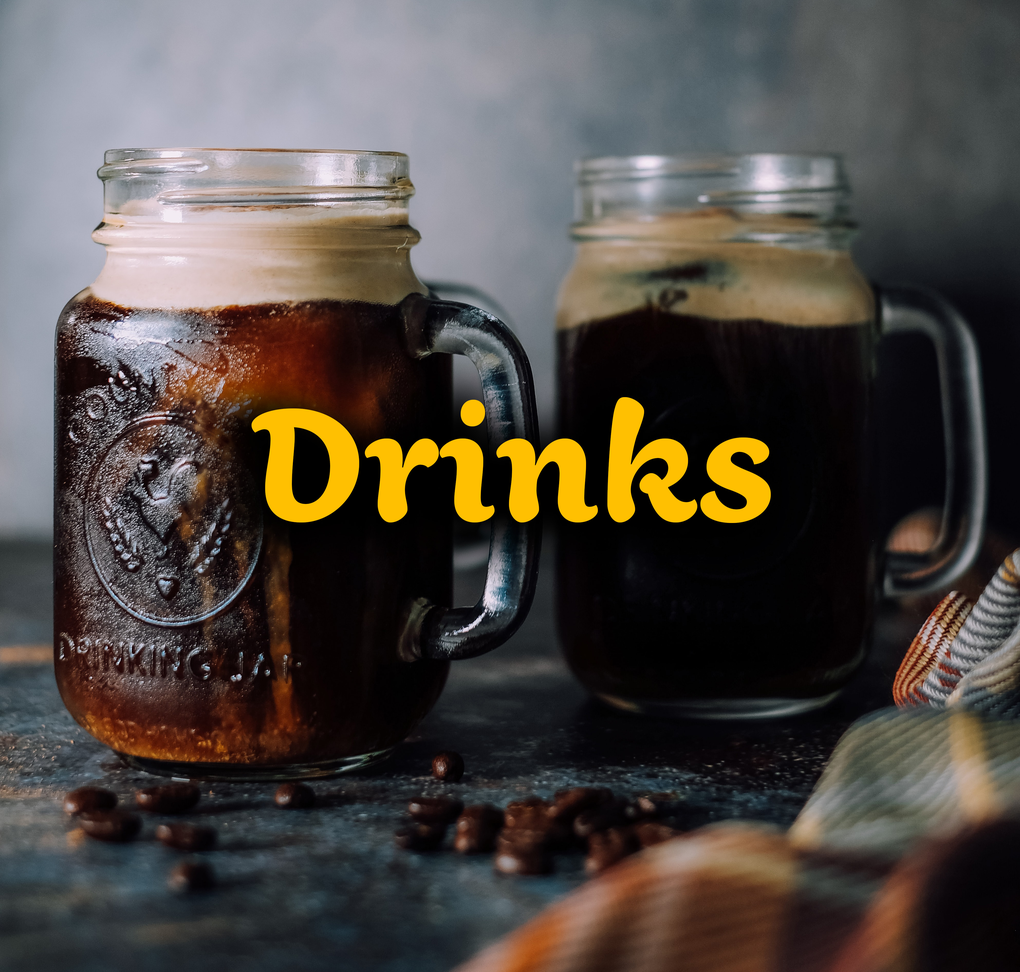
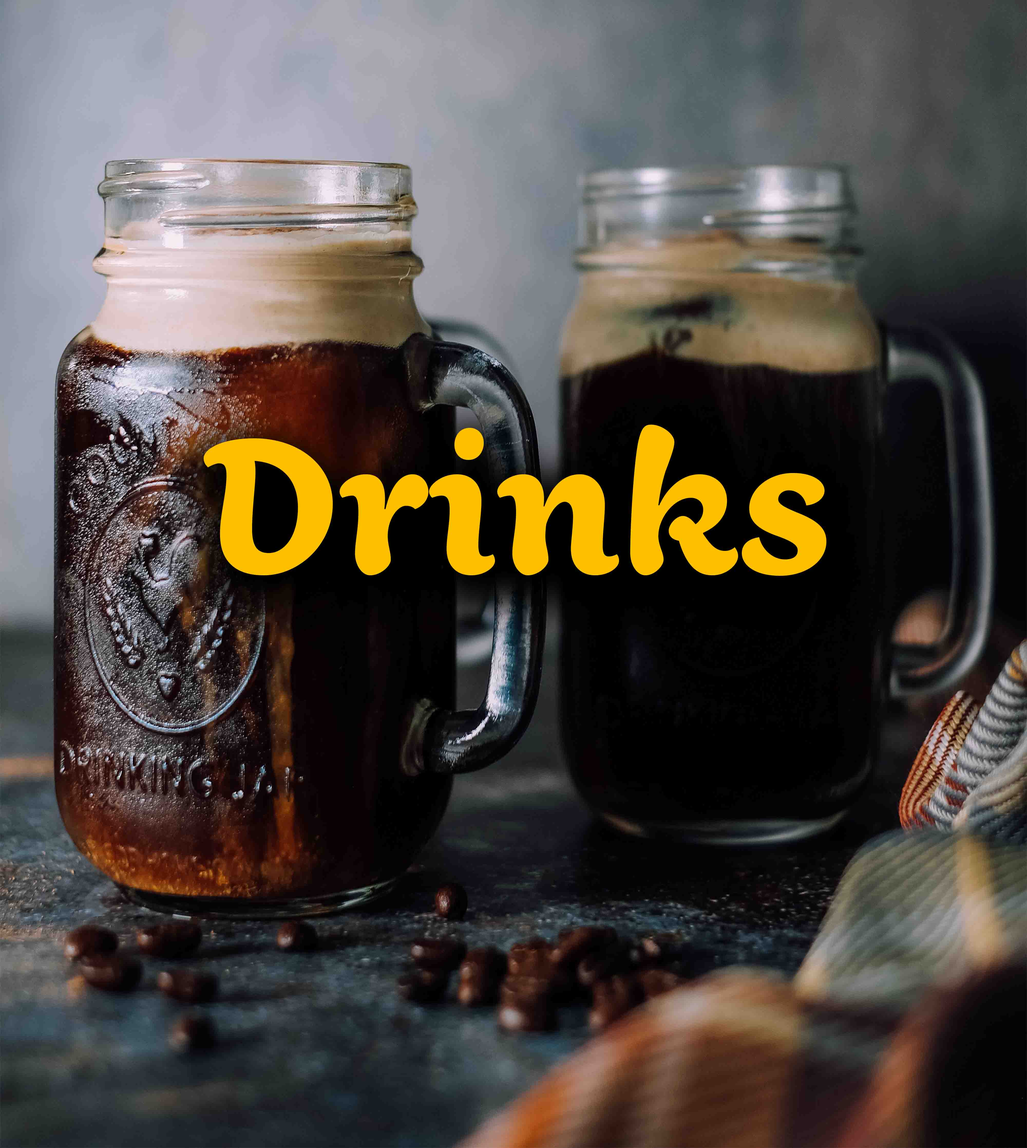
performance optimize & enhanced tables UX

diff --git a/public/css/main.css b/public/css/main.css
@@ -70,19 +70,21 @@ img {
     height: 12rem;
     border-radius: 25px;
 }
-
+.thumbnailsContainer{
+    min-height: 65vh;
+}
 .mainCat-img {
     display: inline-block ;
     margin: 0 auto;
     width: 80%;
     height: 87.2%;
     border-radius: 25px;
-
-}.subCat-img{
+}
+.subCat-img{
      display: inline-block;
      margin: 0 auto;
      width: 80%;
-     height: 70%;
+     height: 92.8%;
      border-radius: 25px;
  }
 
@@ -244,18 +246,21 @@ td, th {
 /* My text */
 .myDescription-slider{
     display: block;
-    margin-top:0 ;
     overflow: hidden;
     text-overflow: ellipsis;
     display: -webkit-box;
     height:80px;
-    -webkit-line-clamp: 2 ;/* number of lines to show */
-    line-clamp: 2;
+    -webkit-line-clamp: 3 ;/* number of lines to show */
+    line-clamp: 3;
+    line-height: 20px;
     -webkit-box-orient: vertical;
-    padding : 12px;
 }
 .myDescription{
     word-wrap: break-word;
+    margin-top:3vh;
+    line-height: 100%;
+    margin-bottom:3vh;
+    text-align:left;
 }
 .myTitle{
     text-align-all: center;
@@ -343,6 +348,18 @@ only screen and (max-width: 760px),
         padding-right: 10px;
         white-space: nowrap;
     }
-    /*END Tables*/
 }
+.myTitle_column{
+    box-shadow: inset 0 0 0 0 #fcd517;
+    color: #0081ff;
+    font-weight: bold;
+    transition: color .3s ease-in-out, box-shadow .3s ease-in-out;
+    text-decoration: underline dotted
+}
+.myTitle_column:hover{
+    box-shadow: inset 20px 20px 50px 20px #ffe781;
+    color: black;
+    cursor: pointer;
+}
+/*END Tables*/
 

diff --git a/resources/views/welcome.blade.php b/resources/views/welcome.blade.php
@@ -16,7 +16,7 @@
                     </div>
                 @endif
             <!-- the main slider-->
-            <div>
+            <div class="thumbnailsContainer">
                 <div class="row">
                     <a class="col" href="{{route('foodPage')}}">
                     <img class='mainCat-img' src="{{asset('images/mainCats_imgs/food.jpg')}}" alt="">
@@ -101,10 +101,10 @@
                     <br>
                     <hr>
                     <div>
-                        <img class='sub-img-student mt-3' src="{{asset('images/thumbnails/Vendor Activty.png')}}" alt="Vendor Activity">
+                        <img class='sub-img-student mt-3' src="{{asset('images/thumbnails/Vendor Activty.png')}}" alt="Vendor Activity" loading="lazy">
                         <div class="row">
-                            <img class='subCat-img col mt-3' src="{{asset('images/thumbnails/Vendor Food.png')}}" alt="Vendor Activity">
-                            <img class='subCat-img col mt-3' src="{{asset('images/thumbnails/Telegram banner.png')}}" alt="Vendor Activity">
+                            <img class='subCat-img col mt-3' src="{{asset('images/thumbnails/Vendor Food.png')}}" alt="Vendor Activity" loading="lazy">
+                            <img class='subCat-img col mt-3' src="{{asset('images/thumbnails/Telegram banner.png')}}" alt="Vendor Activity" loading="lazy">
                         </div>
                     </div>
                 </div>

diff --git a/resources/views/pages/favorite.blade.php b/resources/views/pages/favorite.blade.php
@@ -35,13 +35,13 @@
                 @foreach($deals as $deal)
                     <tbody>
                 <tr class="myTable-r">
-                    <td data-bs-toggle="modal" data-bs-target="#dealModal{{$deal->id}}" >
-                        <img class="myShow-img" src="{{asset('uploads/deals_pics/'.$deal->first_image())}}" width="70" height="70"  alt="{{$deal->title}}">
+                    <td class="myTitle_column" data-bs-toggle="modal" data-bs-target="#dealModal{{$deal->id}}" >
+                        <img class=" myShow-img" src="{{asset('uploads/deals_pics/'.$deal->first_image())}}" width="70" height="70"  alt="{{$deal->title}}">
                     </td>
-                    <td data-bs-toggle="modal" data-bs-target="#dealModal{{$deal->id}}" >
+                    <td class="myTitle_column" data-bs-toggle="modal" data-bs-target="#dealModal{{$deal->id}}" >
                         {{$deal->title}}
                     </td>
-                    <td>{{$deal->merchant->name}}</td>
+                    <td>{{$deal->merchant->name ?? "Deleted merchant"}}</td>
                     <td data-bs-toggle="modal" data-bs-target="#dealModal{{$deal->id}}">{{$deal->price}}</td>
                     <td>
                         <a class="myHeart-fav removeFavDeal" data-deal-id="{{$deal->id}}">

diff --git a/resources/views/forms/_home_DealsSlider.blade.php b/resources/views/forms/_home_DealsSlider.blade.php
@@ -1,13 +1,13 @@
 <div class="mySlider-main col-m-4 content">
         <h4 class="myTitle" data-bs-toggle="modal" data-bs-target="#dealModal{{$deal->id}}">{{$deal->title}}</h4>
         <div class="mySlider-main-img-container">
-            <img class="mySlider-main-img " data-bs-toggle="modal" data-bs-target="#dealModal{{$deal->id}}" src="{{asset('uploads/deals_pics/'.$deal->first_image())}}">
+            <img class="mySlider-main-img " data-bs-toggle="modal" data-bs-target="#dealModal{{$deal->id}}" src="{{asset('uploads/deals_pics/'.$deal->first_image())}}" loading="lazy">
         </div>
     <a class="merName" @isset($deal->merchant) href="{{route('merchants.deals', $merchant=$deal->merchant)}}" target="_blank" @endisset>
         <b>{{$deal->merchant->name ?? "Deleted merchant"}}</b>
     </a>
-        <div class="myDescription-slider mt-0">
-           <p>{!!nl2br($deal->description)!!}</p>
+        <div class="myDescription-slider">
+           <p style="word-wrap: break-word;">{!!nl2br($deal->description)!!}</p>
         </div>
     <div class="mt-2"><b class="myPrice">${{$deal->price}}</b></div>
 

diff --git a/resources/views/dashboards/user_dashboard.blade.php b/resources/views/dashboards/user_dashboard.blade.php
@@ -58,7 +58,7 @@
                     <tr>
                     <td class="user-td td-fullTable">{{$item->id}}</td>
                     @foreach($item->deals as $deal)
-                    <td class="user-td td-fullTable" data-bs-toggle="modal" data-bs-target="#dealModal{{$deal->id}}">{{$deal->title}}</td>
+                    <td class="myTitle_column user-td td-fullTable" data-bs-toggle="modal" data-bs-target="#dealModal{{$deal->id}}">{{$deal->title}}</td>
                     <td class="user-td td-fullTable" >
                         <a @isset($deal->merchant->name) class="merName" href="{{route('merchants.deals', $merchant=$deal->merchant)}}" target="_blank" @endisset>
                         {{$deal->merchant->name ?? "Deleted merchant"}}

diff --git a/resources/views/dashboards/admin_dashboard_tabs/deals.blade.php b/resources/views/dashboards/admin_dashboard_tabs/deals.blade.php
@@ -71,7 +71,7 @@
                         <td class="admin-deal-td td-fullTable">
                             {{$deal->id}}
                         </td >
-                        <td class="admin-deal-td td-fullTable" data-bs-toggle="modal" data-bs-target="#dealModal{{$deal->id}}" >
+                        <td class="myTitle_column admin-deal-td td-fullTable" data-bs-toggle="modal" data-bs-target="#dealModal{{$deal->id}}" >
                             {{$deal->title}}
                         </td>
                         <td class="admin-deal-td td-fullTable">

diff --git a/resources/views/deals/show.blade.php b/resources/views/deals/show.blade.php
@@ -27,7 +27,7 @@
                     </h4>
             </div>
             <div class="myDescription">
-            <h4 style="margin-top:3vh;margin-bottom:3vh; text-align:left; padding-left:2vw;"><b>Description:<br></b>{!!nl2br($deal->description)!!}</h4>
+            <h4><b>Description:</b><br>{!!nl2br($deal->description)!!}</h4>
             </div>
                 <div style="margin-top:3vh; margin-bottom:3vh; text-align:left; padding-left:2vw;">
                 @isset($deal->more_info)

diff --git a/resources/views/deals/_show.blade.php b/resources/views/deals/_show.blade.php
@@ -9,7 +9,7 @@
         </div>
         <div class="carousel-inner">
             <div class="carousel-item active">
-                <img src="{{asset('uploads/deals_pics/'.$deal->first_image())}}" class="d-block w-100" alt="...">
+                <img src="{{asset('uploads/deals_pics/'.$deal->first_image())}}" class="d-block w-100" alt="{{$deal->title}}" loading="lazy">
             </div>
             @foreach($deal->images->skip(1) as $image)
             <div class="carousel-item">
